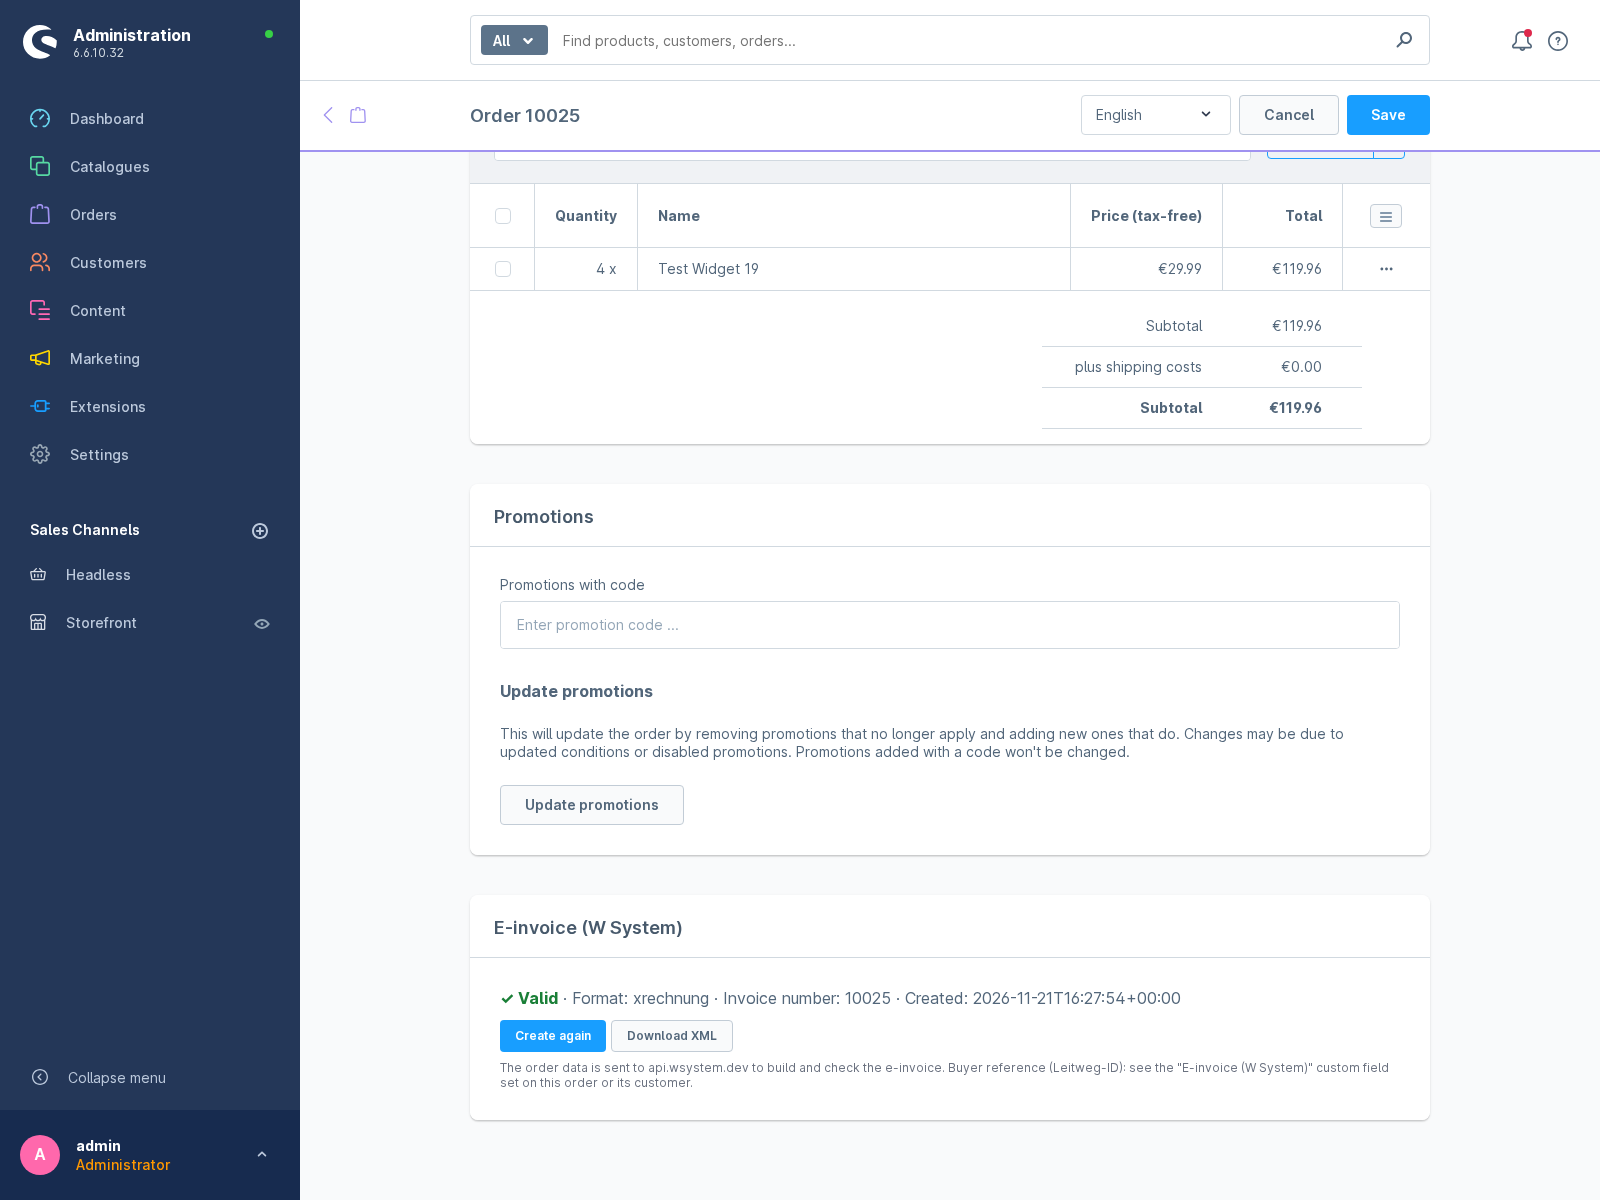
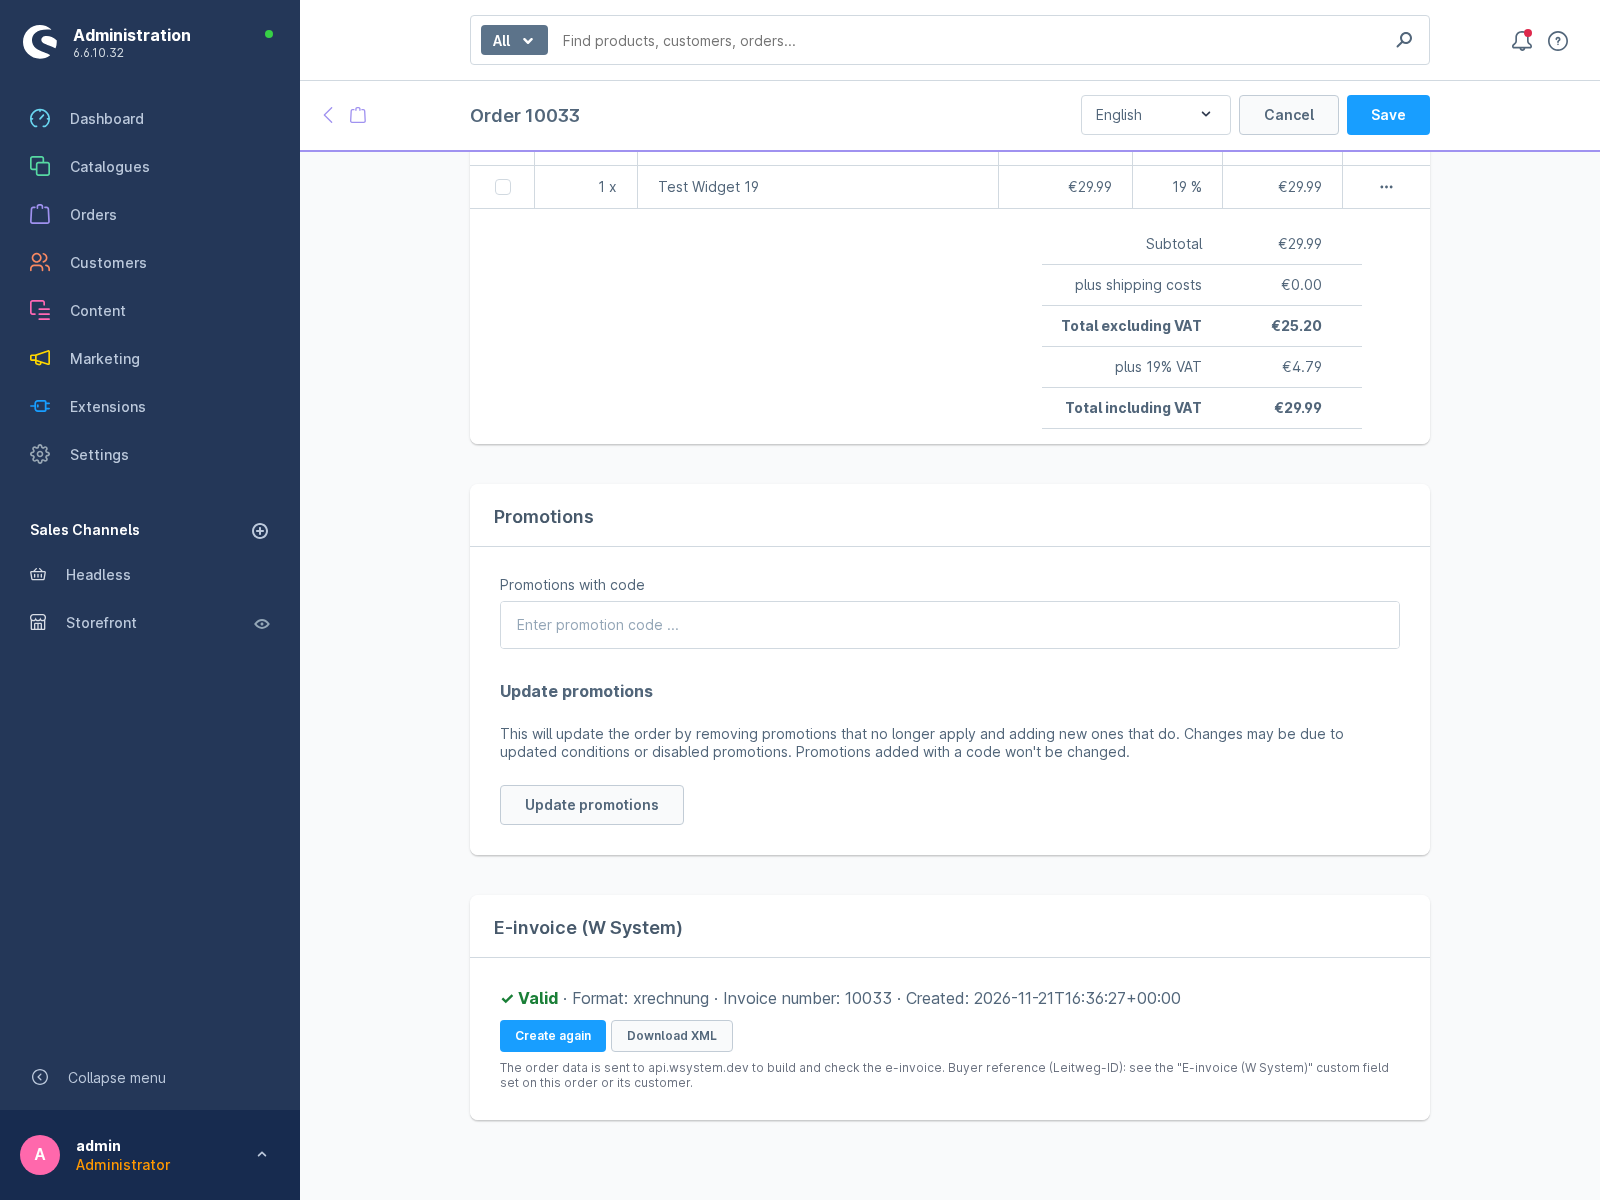
1.0.1: API key test button, logging, Store code-review fixes

diff --git a/src/Resources/public/administration/js/w-system-e-invoice.js b/src/Resources/public/administration/js/w-system-e-invoice.js
@@ -18,6 +18,8 @@
             lastError: 'Last error',
             done: 'E-invoice created.',
             failed: 'E-invoice could not be created.',
+            testKey: 'Test saved API key',
+            testHint: 'Save the settings first. The test checks the saved key against api.wsystem.dev.',
             hint: 'The order data is sent to api.wsystem.dev to build and check the e-invoice. Buyer reference (Leitweg-ID): see the "E-invoice (W System)" custom field set on this order or its customer.',
         },
     });
@@ -37,7 +39,30 @@
             lastError: 'Letzter Fehler',
             done: 'E-Rechnung erstellt.',
             failed: 'E-Rechnung konnte nicht erstellt werden.',
+            testKey: 'Gespeicherten API-Schlüssel testen',
+            testHint: 'Speichern Sie die Einstellungen zuerst. Der Test prüft den gespeicherten Schlüssel gegen api.wsystem.dev.',
             hint: 'Die Bestelldaten werden zur Erstellung und Prüfung der E-Rechnung an api.wsystem.dev gesendet. Käuferreferenz (Leitweg-ID): siehe Zusatzfeld-Set „E-Rechnung (W System)“ an dieser Bestellung oder am Kunden.',
+        },
+    });
+
+    Component.register('wsystem-einvoice-api-test', {
+        template: `
+<div class="wsystem-einvoice-api-test" style="margin-bottom:24px">
+    <sw-button size="small" :isLoading="busy" @click="run">{{ $tc('wsystem-einvoice.testKey') }}</sw-button>
+    <p v-if="message" :style="{ marginTop: '8px', color: ok ? '#1a7f37' : '#b42318' }">{{ message }}</p>
+    <p v-else style="margin-top:8px;font-size:12px;color:#6b7280">{{ $tc('wsystem-einvoice.testHint') }}</p>
+</div>`,
+        inject: ['loginService'],
+        data() { return { busy: false, ok: true, message: '' }; },
+        methods: {
+            run() {
+                this.busy = true;
+                Shopware.Application.getContainer('init').httpClient
+                    .post('/_action/wsystem-einvoice/test-api', {}, { headers: { Authorization: `Bearer ${this.loginService.getToken()}` } })
+                    .then((r) => { this.ok = !!r.data.ok; this.message = r.data.message; })
+                    .catch(() => { this.ok = false; this.message = 'Request failed.'; })
+                    .finally(() => { this.busy = false; });
+            },
         },
     });
 

diff --git a/src/Service/OrderMapper.php b/src/Service/OrderMapper.php
@@ -4,6 +4,8 @@ namespace WSystem\EInvoice\Service;
 
 use Shopware\Core\Checkout\Cart\Price\Struct\CalculatedPrice;
 use Shopware\Core\Checkout\Cart\Price\Struct\CartPrice;
+use Shopware\Core\Checkout\Cart\Tax\Struct\CalculatedTaxCollection;
+use Shopware\Core\Checkout\Cart\Tax\Struct\TaxRuleCollection;
 use Shopware\Core\Checkout\Order\Aggregate\OrderAddress\OrderAddressEntity;
 use Shopware\Core\Checkout\Order\OrderEntity;
 use WSystem\EInvoice\WSystemEInvoice;
@@ -22,8 +24,8 @@ final class OrderMapper
         $oc = $order->getOrderCustomer();
         $ids = $oc !== null ? $oc->getVatIds() : null;
         foreach ((array) $ids as $id) {
-            if (\is_string($id) && trim($id) !== '') {
-                return strtoupper((string) preg_replace('/[\s.\-]/', '', $id));
+            if (trim((string) $id) !== '') {
+                return strtoupper((string) preg_replace('/[\s.\-]/', '', (string) $id));
             }
         }
 
@@ -53,8 +55,11 @@ final class OrderMapper
     public static function invoiceNumber(OrderEntity $order): string
     {
         foreach ($order->getDocuments() ?? [] as $doc) {
-            $type = $doc->getDocumentType();
-            if ($type !== null && $type->getTechnicalName() === 'invoice') {
+            // 6.5 to 6.8 expose the type through the documentType association; newer versions through getTypeName().
+            $typeName = method_exists($doc, 'getTypeName') // @phpstan-ignore function.alreadyNarrowedType
+                ? $doc->getTypeName()
+                : $doc->getDocumentType()?->getTechnicalName(); // @phpstan-ignore method.deprecated, method.deprecatedClass
+            if ($typeName === 'invoice') {
                 $cfg = $doc->getConfig();
                 if (!empty($cfg['documentNumber'])) {
                     return (string) $cfg['documentNumber'];
@@ -281,7 +286,7 @@ final class OrderMapper
             }
             $payload = $item->getPayload() ?? [];
             $sku = (string) ($payload['productNumber'] ?? '');
-            $l = self::line((string) $item->getLabel(), (float) $item->getQuantity(), $item->getPrice() ?? new CalculatedPrice(0, 0, new \Shopware\Core\Checkout\Cart\Price\Struct\CalculatedTaxCollection(), new \Shopware\Core\Checkout\Cart\Tax\Struct\TaxRuleCollection()), $taxStatus, $zero, $small, $sku);
+            $l = self::line((string) $item->getLabel(), (float) $item->getQuantity(), $item->getPrice() ?? new CalculatedPrice(0, 0, new CalculatedTaxCollection(), new TaxRuleCollection()), $taxStatus, $zero, $small, $sku);
             if ($l !== null) {
                 $raw[] = $l;
             }

diff --git a/src/Service/ApiClient.php b/src/Service/ApiClient.php
@@ -7,7 +7,7 @@ namespace WSystem\EInvoice\Service;
  */
 final class ApiClient
 {
-    public const VERSION = '1.0.0';
+    public const VERSION = '1.0.1';
     public const BASE = 'https://api.wsystem.dev';
 
     public function __construct(private readonly HttpTransport $transport)
@@ -31,7 +31,7 @@ final class ApiClient
         // Transient TLS/network errors: one retry.
         for ($try = 0; $try < 2; ++$try) {
             try {
-                $res = $this->transport->post(self::BASE . '/einvoice/create', $headers, (string) $payload, 45);
+                $res = $this->transport->post(self::BASE . '/einvoice/create', $headers, (string) $payload, 25);
                 break;
             } catch (\RuntimeException $e) {
                 $lastError = $e->getMessage();
@@ -48,6 +48,34 @@ final class ApiClient
         }
 
         return ['ok' => $error === '', 'status' => $res['status'], 'data' => $data, 'error' => $error];
+    }
+
+    /**
+     * Checks an API key against GET /billing/usage.
+     *
+     * @return array{ok:bool,message:string}
+     */
+    public function testKey(string $apiKey): array
+    {
+        $apiKey = trim($apiKey);
+        if ($apiKey === '') {
+            return ['ok' => true, 'message' => 'No API key set: the free tier applies (20 API calls per day per server IP address).'];
+        }
+        try {
+            $res = $this->transport->get(self::BASE . '/billing/usage', ['Accept' => 'application/json', 'X-API-Key' => $apiKey], 15);
+        } catch (\RuntimeException $e) {
+            return ['ok' => false, 'message' => 'The W System API could not be reached: ' . $e->getMessage()];
+        }
+        $data = json_decode($res['body'], true);
+        $data = \is_array($data) ? $data : [];
+        if ($res['status'] === 200 && isset($data['plan'])) {
+            return ['ok' => true, 'message' => sprintf('API key accepted. Plan: %s, %s of %s units left this month.', (string) $data['plan'], (string) ($data['remaining'] ?? '?'), (string) ($data['quota'] ?? '?'))];
+        }
+        if ($res['status'] === 401) {
+            return ['ok' => false, 'message' => 'The API key was not accepted. Check it or get a free key at https://api.wsystem.dev/account/free-key?ref=shopware-einvoice'];
+        }
+
+        return ['ok' => false, 'message' => self::errorText($res['status'], $data)];
     }
 
     /**

diff --git a/src/Service/InvoiceService.php b/src/Service/InvoiceService.php
@@ -6,6 +6,7 @@ use Shopware\Core\Checkout\Order\OrderEntity;
 use Shopware\Core\Framework\Context;
 use Shopware\Core\Framework\DataAbstractionLayer\EntityRepository;
 use Shopware\Core\Framework\DataAbstractionLayer\Search\Criteria;
+use Psr\Log\LoggerInterface;
 use Shopware\Core\System\SystemConfig\SystemConfigService;
 
 /**
@@ -27,7 +28,8 @@ class InvoiceService
     public function __construct(
         private readonly EntityRepository $orderRepository,
         private readonly SystemConfigService $config,
-        private readonly ApiClient $api
+        private readonly ApiClient $api,
+        private readonly ?LoggerInterface $logger = null
     ) {
     }
 
@@ -39,7 +41,7 @@ class InvoiceService
             'transactions.stateMachineState', 'transactions.paymentMethod', 'documents.documentType',
         ]);
         /** @var OrderEntity|null $order */
-        $order = $this->orderRepository->search($criteria, $context)->first();
+        $order = $this->orderRepository->search($criteria, $context)->getEntities()->first();
 
         return $order;
     }
@@ -51,6 +53,21 @@ class InvoiceService
         $id = $this->orderRepository->searchIds($criteria, $context)->firstId();
 
         return $id ? $this->loadOrder($id, $context) : null;
+    }
+
+    /**
+     * Tests the saved API key (used by the "Test API key" button in the plugin settings).
+     *
+     * @return array{ok:bool,message:string}
+     */
+    public function testApiKey(?string $salesChannelId): array
+    {
+        return $this->api->testKey(Settings::load($this->config, $salesChannelId)->str('apiKey'));
+    }
+
+    public function log(string $level, string $message): void
+    {
+        $this->logger?->log($level, '[WSystemEInvoice] ' . $message);
     }
 
     public function settingsFor(OrderEntity $order): Settings
@@ -84,6 +101,7 @@ class InvoiceService
         $res = $this->api->create($body, $s->str('apiKey'));
         if (!$res['ok']) {
             $this->store($order, $context, [self::F_LAST_ERROR => $res['error']]);
+            $this->log('warning', sprintf('E-invoice for order %s could not be created: %s', (string) $order->getOrderNumber(), $res['error']));
 
             return ['valid' => false, 'error' => $res['error'], 'errors' => []];
         }

diff --git a/src/Service/CurlTransport.php b/src/Service/CurlTransport.php
@@ -6,6 +6,21 @@ final class CurlTransport implements HttpTransport
 {
     public function post(string $url, array $headers, string $body, int $timeoutSeconds): array
     {
+        return $this->send($url, $headers, $timeoutSeconds, $body);
+    }
+
+    public function get(string $url, array $headers, int $timeoutSeconds): array
+    {
+        return $this->send($url, $headers, $timeoutSeconds, null);
+    }
+
+    /**
+     * @param array<string,string> $headers
+     *
+     * @return array{status:int,body:string}
+     */
+    private function send(string $url, array $headers, int $timeoutSeconds, ?string $body): array
+    {
         $ch = curl_init($url);
         if ($ch === false) {
             throw new \RuntimeException('curl_init failed');
@@ -15,14 +30,16 @@ final class CurlTransport implements HttpTransport
             $lines[] = $name . ': ' . $value;
         }
         curl_setopt_array($ch, [
-            \CURLOPT_POST => true,
-            \CURLOPT_POSTFIELDS => $body,
             \CURLOPT_RETURNTRANSFER => true,
             \CURLOPT_TIMEOUT => $timeoutSeconds,
             \CURLOPT_CONNECTTIMEOUT => min(10, $timeoutSeconds),
             \CURLOPT_HTTPHEADER => $lines,
             \CURLOPT_USERAGENT => 'wsystem-shopware-e-invoice/' . ApiClient::VERSION,
         ]);
+        if ($body !== null) {
+            curl_setopt($ch, \CURLOPT_POST, true);
+            curl_setopt($ch, \CURLOPT_POSTFIELDS, $body);
+        }
         $out = curl_exec($ch);
         if ($out === false) {
             $err = curl_error($ch);

diff --git a/src/Subscriber/AutoCreateSubscriber.php b/src/Subscriber/AutoCreateSubscriber.php
@@ -46,8 +46,8 @@ class AutoCreateSubscriber implements EventSubscriberInterface
         if ($event->getStateEventName() !== 'state_enter.order_transaction.state.paid') {
             return;
         }
-        $tx = $this->transactionRepository->search(new \Shopware\Core\Framework\DataAbstractionLayer\Search\Criteria([$event->getTransition()->getEntityId()]), $event->getContext())->first();
-        if ($tx !== null) {
+        $tx = $this->transactionRepository->search(new \Shopware\Core\Framework\DataAbstractionLayer\Search\Criteria([$event->getTransition()->getEntityId()]), $event->getContext())->getEntities()->first();
+        if ($tx instanceof \Shopware\Core\Checkout\Order\Aggregate\OrderTransaction\OrderTransactionEntity) {
             $this->run($tx->getOrderId(), 'paid', $event->getContext());
         }
     }
@@ -60,7 +60,7 @@ class AutoCreateSubscriber implements EventSubscriberInterface
                 $this->invoices->generate($order, $context);
             }
         } catch (\Throwable $e) {
-            // never block the shop
+            $this->invoices->log('error', 'Automatic e-invoice creation failed: ' . $e->getMessage());
         }
     }
 }

diff --git a/src/Controller/InvoiceController.php b/src/Controller/InvoiceController.php
@@ -5,6 +5,7 @@ namespace WSystem\EInvoice\Controller;
 use Shopware\Core\Framework\Context;
 use Shopware\Core\PlatformRequest;
 use Symfony\Component\HttpFoundation\JsonResponse;
+use Symfony\Component\HttpFoundation\Request;
 use Symfony\Component\HttpFoundation\Response;
 use Symfony\Component\Routing\Attribute\Route;
 use WSystem\EInvoice\Service\InvoiceService;
@@ -14,6 +15,15 @@ class InvoiceController
 {
     public function __construct(private readonly InvoiceService $invoices)
     {
+    }
+
+    #[Route(path: '/api/_action/wsystem-einvoice/test-api', name: 'api.action.wsystem_einvoice.test_api', defaults: ['_acl' => ['system_config:read']], methods: ['POST'])]
+    public function testApi(Request $request): Response
+    {
+        $r = $this->invoices->testApiKey((string) $request->request->get('salesChannelId', '') ?: null);
+        $this->invoices->log($r['ok'] ? 'info' : 'warning', 'API test: ' . $r['message']);
+
+        return new JsonResponse($r);
     }
 
     #[Route(path: '/api/_action/wsystem-einvoice/order/{orderId}/status', name: 'api.action.wsystem_einvoice.status', defaults: ['_acl' => ['order:read']], methods: ['GET'])]

diff --git a/tests/Unit/ApiClientTest.php b/tests/Unit/ApiClientTest.php
@@ -51,4 +51,17 @@ final class ApiClientTest extends TestCase
         self::assertFalse($r['ok']);
         self::assertSame('b', $r['error']);
     }
+
+    public function testKeyTestVariants(): void
+    {
+        $ok = (new ApiClient(new FakeTransport([['status' => 200, 'body' => '{"plan":"free","quota":500,"remaining":269}']])))->testKey('k');
+        self::assertTrue($ok['ok']);
+        self::assertStringContainsString('269 of 500', $ok['message']);
+        $bad = (new ApiClient(new FakeTransport([['status' => 401, 'body' => '{"error":"invalid_api_key"}']])))->testKey('k');
+        self::assertFalse($bad['ok']);
+        self::assertStringContainsString('not accepted', $bad['message']);
+        self::assertTrue((new ApiClient(new FakeTransport([])))->testKey(' ')['ok']);
+        $down = (new ApiClient(new FakeTransport([new \RuntimeException('ssl')])))->testKey('k');
+        self::assertFalse($down['ok']);
+    }
 }

diff --git a/src/Service/Settings.php b/src/Service/Settings.php
@@ -44,10 +44,12 @@ final class Settings
 
     public static function load(SystemConfigService $config, ?string $salesChannelId): self
     {
-        $raw = $config->getDomain(self::DOMAIN, $salesChannelId, true);
         $values = [];
-        foreach ($raw as $key => $value) {
-            $values[str_starts_with($key, self::DOMAIN . '.') ? substr($key, \strlen(self::DOMAIN) + 1) : $key] = $value;
+        foreach (array_keys(self::DEFAULTS) as $key) {
+            $value = $config->get(self::DOMAIN . '.' . $key, $salesChannelId);
+            if ($value !== null) {
+                $values[$key] = $value;
+            }
         }
 
         return new self($values);

diff --git a/src/Service/HttpTransport.php b/src/Service/HttpTransport.php
@@ -15,4 +15,13 @@ interface HttpTransport
      * @throws \RuntimeException on network errors
      */
     public function post(string $url, array $headers, string $body, int $timeoutSeconds): array;
+
+    /**
+     * @param array<string,string> $headers
+     *
+     * @return array{status:int,body:string}
+     *
+     * @throws \RuntimeException on network errors
+     */
+    public function get(string $url, array $headers, int $timeoutSeconds): array;
 }

diff --git a/src/Command/GenerateCommand.php b/src/Command/GenerateCommand.php
@@ -25,7 +25,7 @@ class GenerateCommand extends Command
 
     protected function execute(InputInterface $input, OutputInterface $output): int
     {
-        $context = Context::createDefaultContext();
+        $context = Context::createCLIContext();
         $order = $this->invoices->loadByNumber((string) $input->getArgument('orderNumber'), $context);
         if ($order === null) {
             $output->writeln('<error>Order not found</error>');

diff --git a/tests/Unit/FakeTransport.php b/tests/Unit/FakeTransport.php
@@ -14,6 +14,11 @@ final class FakeTransport implements HttpTransport
     {
     }
 
+    public function get(string $url, array $headers, int $timeoutSeconds): array
+    {
+        return $this->post($url, $headers, '', $timeoutSeconds);
+    }
+
     public function post(string $url, array $headers, string $body, int $timeoutSeconds): array
     {
         $this->calls[] = ['url' => $url, 'headers' => $headers, 'body' => $body];
